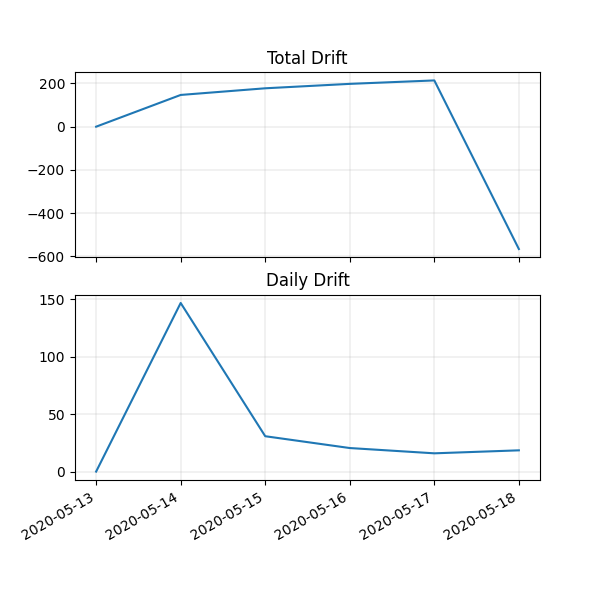
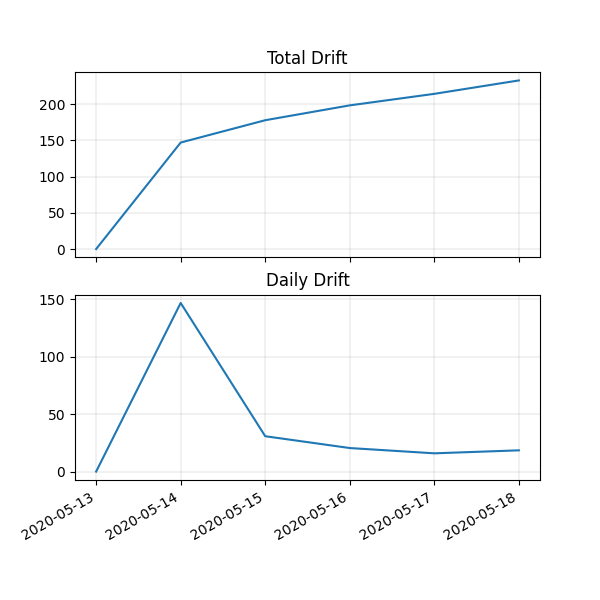
Mon May 18 19:03:42 EDT 2020

diff --git a/script/populate_readme.py b/script/populate_readme.py
@@ -106,7 +106,7 @@ season2_mask = (df['date'] > "2020-05-12") & (df['date'] <= "2022-01-01")
 season2 = df.loc[season2_mask].copy()
 season_reset = True
 start_mean = 0
-for row in season2.head().itertuples():
+for row in season2.itertuples():
     if season_reset:
         season2.at[row.Index, 'drift_total'] = 0
         season2.at[row.Index, 'drift_daily'] = 0
@@ -116,6 +116,7 @@ for row in season2.head().itertuples():
         prev_mean = season2.at[row.Index-1, 'mean']
         season2.at[row.Index, 'drift_daily'] = round(row.mean - prev_mean, 1)
         season2.at[row.Index, 'drift_total'] = round(row.mean - start_mean, 1)
+print(season2)
 plots(season2, "season-2")
 
 stat.append(clms)

diff --git a/README.md b/README.md
@@ -1,6 +1,6 @@
 # MMR Drift Status
 
-**Last Updated (UTC):** 2020-05-18 21:15:15.995347
+**Last Updated (UTC):** 2020-05-18 23:03:42.303164
 # Season 2
 ![Figure 1](/images/season-2_MMMM.png)
 ![Figure 2](/images/season-2_CHANGE.png)
